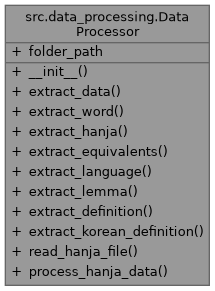
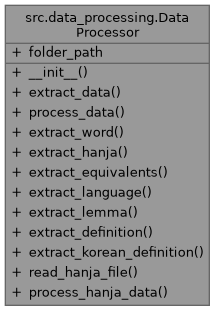
deploy: 048e31db4cb260b1e156aedfd723d729ba83c56d

Changed region(s): [[0.0279, 0.0, 0.9767, 0.9897]]

diff --git a/docs/classsrc_1_1data__processing_1_1DataProcessor.html b/docs/classsrc_1_1data__processing_1_1DataProcessor.html
@@ -111,7 +111,7 @@ Collaboration diagram for src.data_processing.DataProcessor:</div>
 <div class="dyncontent">
 <div class="center"><img src="classsrc_1_1data__processing_1_1DataProcessor__coll__graph.png" border="0" usemap="#asrc_8data__processing_8DataProcessor_coll__map" alt="Collaboration graph"/></div>
 <map name="asrc_8data__processing_8DataProcessor_coll__map" id="asrc_8data__processing_8DataProcessor_coll__map">
-<area shape="rect" title="A class to process the data of the json file." alt="" coords="5,5,209,285"/>
+<area shape="rect" title="A class to process the data of the json file." alt="" coords="5,5,209,305"/>
 </map>
 </div>
 <table class="memberdecls">
@@ -122,6 +122,9 @@ Public Member Functions</h2></td></tr>
 <tr class="memitem:a4d8f294a1410020041fdd57ebca5c629" id="r_a4d8f294a1410020041fdd57ebca5c629"><td class="memItemLeft" align="right" valign="top">&#160;</td><td class="memItemRight" valign="bottom"><a class="el" href="classsrc_1_1data__processing_1_1DataProcessor.html#a4d8f294a1410020041fdd57ebca5c629">extract_data</a> (self)</td></tr>
 <tr class="memdesc:a4d8f294a1410020041fdd57ebca5c629"><td class="mdescLeft">&#160;</td><td class="mdescRight">Extracts data from JSON files in the specified folder.  <br /></td></tr>
 <tr class="separator:a4d8f294a1410020041fdd57ebca5c629"><td class="memSeparator" colspan="2">&#160;</td></tr>
+<tr class="memitem:af1d408b78a8a28b54b96e30bc3de1754" id="r_af1d408b78a8a28b54b96e30bc3de1754"><td class="memItemLeft" align="right" valign="top">&#160;</td><td class="memItemRight" valign="bottom"><a class="el" href="classsrc_1_1data__processing_1_1DataProcessor.html#af1d408b78a8a28b54b96e30bc3de1754">process_data</a> (self, raw_data)</td></tr>
+<tr class="memdesc:af1d408b78a8a28b54b96e30bc3de1754"><td class="mdescLeft">&#160;</td><td class="mdescRight">Processes raw data to extract and transform necessary fields for further use.  <br /></td></tr>
+<tr class="separator:af1d408b78a8a28b54b96e30bc3de1754"><td class="memSeparator" colspan="2">&#160;</td></tr>
 <tr class="memitem:aca8cb2dd99e8358d0c80ff0f04307193" id="r_aca8cb2dd99e8358d0c80ff0f04307193"><td class="memItemLeft" align="right" valign="top">&#160;</td><td class="memItemRight" valign="bottom"><a class="el" href="classsrc_1_1data__processing_1_1DataProcessor.html#aca8cb2dd99e8358d0c80ff0f04307193">extract_word</a> (self, lemma_datas)</td></tr>
 <tr class="memdesc:aca8cb2dd99e8358d0c80ff0f04307193"><td class="mdescLeft">&#160;</td><td class="mdescRight">Extracts the 'val' from the lemma element.  <br /></td></tr>
 <tr class="separator:aca8cb2dd99e8358d0c80ff0f04307193"><td class="memSeparator" colspan="2">&#160;</td></tr>
@@ -467,6 +470,101 @@ Public Attributes</h2></td></tr>
   </dd>
 </dl>
 <dl class="section return"><dt>Returns</dt><dd>The extracted word value, or None if not found. </dd></dl>
+
+</div>
+</div>
+<a id="af1d408b78a8a28b54b96e30bc3de1754" name="af1d408b78a8a28b54b96e30bc3de1754"></a>
+<h2 class="memtitle"><span class="permalink"><a href="#af1d408b78a8a28b54b96e30bc3de1754">&#9670;&#160;</a></span>process_data()</h2>
+
+<div class="memitem">
+<div class="memproto">
+      <table class="memname">
+        <tr>
+          <td class="memname">src.data_processing.DataProcessor.process_data </td>
+          <td>(</td>
+          <td class="paramtype">&#160;</td>
+          <td class="paramname"><em>self</em>, </td>
+        </tr>
+        <tr>
+          <td class="paramkey"></td>
+          <td></td>
+          <td class="paramtype">&#160;</td>
+          <td class="paramname"><em>raw_data</em>&#160;</td>
+        </tr>
+        <tr>
+          <td></td>
+          <td>)</td>
+          <td></td><td></td>
+        </tr>
+      </table>
+</div><div class="memdoc">
+
+<p>Processes raw data to extract and transform necessary fields for further use. </p>
+<dl class="params"><dt>Parameters</dt><dd>
+  <table class="params">
+    <tr><td class="paramname">raw_data</td><td>A list of dictionaries representing raw data entries. </td></tr>
+  </table>
+  </dd>
+</dl>
+<dl class="section return"><dt>Returns</dt><dd>A list of dictionaries with processed and relevant data.</dd></dl>
+<p>lexical_entries Represents a single lexical entry in the dictionary, containing various features of the word. Lemma:</p><ul>
+<li>A list of 'feat' elements that represent the main word form.</li>
+<li>Each 'feat' contains:<ul>
+<li>'att': The attribute name, typically 'writtenForm' for the main word.</li>
+<li>'val': The actual value, which is the word itself (e.g., '침팬지'). RelatedForm:</li>
+</ul>
+</li>
+<li>Represents any related forms of the word, such as variations or inflections.</li>
+<li>Typically contains 'feat' elements with 'att' representing the type of form (e.g., 'variant') and 'val' representing the word form (e.g., '침팬치'). Sense:</li>
+<li>Contains detailed information about the meaning(s) of the word.</li>
+<li>Typically contains the following sub-elements:<ul>
+<li>Equivalent: A list of 'feat' elements representing the word's equivalent forms in other languages. Each 'feat' contains:<ul>
+<li>'att': The attribute name, such as 'language', 'lemma', or 'definition'.</li>
+<li>'val': The corresponding value for the attribute, such as:<ul>
+<li>'language' -&gt; The language name (e.g., '영어' for English, '프랑스어' for French).</li>
+<li>'lemma' -&gt; The word in the equivalent language.</li>
+<li>'definition' -&gt; The definition of the word in the equivalent language.</li>
+</ul>
+</li>
+</ul>
+</li>
+<li>SenseExample:<ul>
+<li>Contains example usage of the word, typically in context.</li>
+<li>'feat': A list containing:<ul>
+<li>'att': 'type' represents the type of example (e.g., '문장' for sentence, '대화' for conversation).</li>
+<li>'val': The actual example text.</li>
+</ul>
+</li>
+</ul>
+</li>
+<li>att : could represent the identifier for sense.</li>
+<li>feat: This part contains the different specifications<ul>
+<li>'att': 'type' represents different specifications of the word such as 'homonym_number', 'partOfSpeech', 'origin', 'vocabularyLevel', 'lexicalUnit'.</li>
+<li>'val': The actual value of the specification.</li>
+</ul>
+</li>
+<li>val : could represent the id of the word WordForm:</li>
+</ul>
+</li>
+<li>Contains pronunciation information or other related word forms.</li>
+<li>Typically contains 'feat' elements with:<ul>
+<li>'att': 'pronunciation' for pronunciation details.</li>
+<li>'val': The value for pronunciation or another related form. att:</li>
+</ul>
+</li>
+<li>Can represent various attributes or features of the word, such as:<ul>
+<li>'id': The unique identifier for the lexical entry.</li>
+<li>'partOfSpeech': The part of speech (e.g., 'noun', 'verb').</li>
+<li>'origin': The origin of the word (e.g., '한자' for Hanja-based words). feat:</li>
+</ul>
+</li>
+<li>Contains various additional features of the word, such as:<ul>
+<li>'att': Could include attributes like 'homonym_number', 'partOfSpeech', 'origin', 'vocabularyLevel', 'lexicalUnit'.</li>
+<li>'val': The actual value for each feature (e.g., a specific homonym number, part of speech, or origin of the word). val:</li>
+</ul>
+</li>
+<li>Can represent a variety of values such as the 'id' of the word, or specific properties like part of speech or lexical unit. </li>
+</ul>
 
 </div>
 </div>

diff --git a/docs/navtreeindex0.js b/docs/navtreeindex0.js
@@ -7,8 +7,8 @@ var NAVTREEINDEX0 =
 "classsrc_1_1data__access_1_1DataAccess.html":[1,0,0,0,0],
 "classsrc_1_1data__access_1_1DataAccess.html#a1cfc6893f66c213340355c6acaf1a3a3":[0,0,0,1,0,5],
 "classsrc_1_1data__access_1_1DataAccess.html#a1cfc6893f66c213340355c6acaf1a3a3":[1,0,0,0,0,5],
-"classsrc_1_1data__access_1_1DataAccess.html#a23e8da2b908674f31c01407620fe3728":[0,0,0,1,0,0],
 "classsrc_1_1data__access_1_1DataAccess.html#a23e8da2b908674f31c01407620fe3728":[1,0,0,0,0,0],
+"classsrc_1_1data__access_1_1DataAccess.html#a23e8da2b908674f31c01407620fe3728":[0,0,0,1,0,0],
 "classsrc_1_1data__access_1_1DataAccess.html#a4684f7cefabfbcb84b28be9e2ef74f64":[0,0,0,1,0,3],
 "classsrc_1_1data__access_1_1DataAccess.html#a4684f7cefabfbcb84b28be9e2ef74f64":[1,0,0,0,0,3],
 "classsrc_1_1data__access_1_1DataAccess.html#a4f4e7ab71ee7131858752bdfb4d0e2f1":[0,0,0,1,0,4],
@@ -17,38 +17,40 @@ var NAVTREEINDEX0 =
 "classsrc_1_1data__access_1_1DataAccess.html#a5f80aa884c00c50a14da99ac902c4dc7":[1,0,0,0,0,1],
 "classsrc_1_1data__access_1_1DataAccess.html#a9857ba6547fe8216f69801f9d4eaa6e0":[0,0,0,1,0,2],
 "classsrc_1_1data__access_1_1DataAccess.html#a9857ba6547fe8216f69801f9d4eaa6e0":[1,0,0,0,0,2],
-"classsrc_1_1data__processing_1_1DataProcessor.html":[0,0,0,2,0],
 "classsrc_1_1data__processing_1_1DataProcessor.html":[1,0,0,1,0],
+"classsrc_1_1data__processing_1_1DataProcessor.html":[0,0,0,2,0],
 "classsrc_1_1data__processing_1_1DataProcessor.html#a3a6f7d8ef4426dfe180524a089fe5ea9":[1,0,0,1,0,7],
 "classsrc_1_1data__processing_1_1DataProcessor.html#a3a6f7d8ef4426dfe180524a089fe5ea9":[0,0,0,2,0,7],
-"classsrc_1_1data__processing_1_1DataProcessor.html#a3f151d5d1bb0d7794aacf774691d3d1f":[1,0,0,1,0,11],
-"classsrc_1_1data__processing_1_1DataProcessor.html#a3f151d5d1bb0d7794aacf774691d3d1f":[0,0,0,2,0,11],
+"classsrc_1_1data__processing_1_1DataProcessor.html#a3f151d5d1bb0d7794aacf774691d3d1f":[1,0,0,1,0,12],
+"classsrc_1_1data__processing_1_1DataProcessor.html#a3f151d5d1bb0d7794aacf774691d3d1f":[0,0,0,2,0,12],
 "classsrc_1_1data__processing_1_1DataProcessor.html#a4d8f294a1410020041fdd57ebca5c629":[1,0,0,1,0,1],
 "classsrc_1_1data__processing_1_1DataProcessor.html#a4d8f294a1410020041fdd57ebca5c629":[0,0,0,2,0,1],
 "classsrc_1_1data__processing_1_1DataProcessor.html#a5ee76136c86c8978b38d4917ea51d145":[1,0,0,1,0,2],
 "classsrc_1_1data__processing_1_1DataProcessor.html#a5ee76136c86c8978b38d4917ea51d145":[0,0,0,2,0,2],
-"classsrc_1_1data__processing_1_1DataProcessor.html#a611dcfaf4a6c3129fc38bc01d659203f":[1,0,0,1,0,9],
-"classsrc_1_1data__processing_1_1DataProcessor.html#a611dcfaf4a6c3129fc38bc01d659203f":[0,0,0,2,0,9],
-"classsrc_1_1data__processing_1_1DataProcessor.html#a8b10b2a476887fdf599456f74c582652":[1,0,0,1,0,5],
+"classsrc_1_1data__processing_1_1DataProcessor.html#a611dcfaf4a6c3129fc38bc01d659203f":[1,0,0,1,0,10],
+"classsrc_1_1data__processing_1_1DataProcessor.html#a611dcfaf4a6c3129fc38bc01d659203f":[0,0,0,2,0,10],
 "classsrc_1_1data__processing_1_1DataProcessor.html#a8b10b2a476887fdf599456f74c582652":[0,0,0,2,0,5],
+"classsrc_1_1data__processing_1_1DataProcessor.html#a8b10b2a476887fdf599456f74c582652":[1,0,0,1,0,5],
 "classsrc_1_1data__processing_1_1DataProcessor.html#a8c28d40e8b07b8de8a765f8f5c9c18f8":[1,0,0,1,0,6],
 "classsrc_1_1data__processing_1_1DataProcessor.html#a8c28d40e8b07b8de8a765f8f5c9c18f8":[0,0,0,2,0,6],
-"classsrc_1_1data__processing_1_1DataProcessor.html#aa387522f4d9d82eab51fad066c97c404":[1,0,0,1,0,3],
 "classsrc_1_1data__processing_1_1DataProcessor.html#aa387522f4d9d82eab51fad066c97c404":[0,0,0,2,0,3],
+"classsrc_1_1data__processing_1_1DataProcessor.html#aa387522f4d9d82eab51fad066c97c404":[1,0,0,1,0,3],
 "classsrc_1_1data__processing_1_1DataProcessor.html#aca8cb2dd99e8358d0c80ff0f04307193":[1,0,0,1,0,8],
 "classsrc_1_1data__processing_1_1DataProcessor.html#aca8cb2dd99e8358d0c80ff0f04307193":[0,0,0,2,0,8],
 "classsrc_1_1data__processing_1_1DataProcessor.html#accedfc491786ec5de0b62d9f13ed1d2f":[0,0,0,2,0,0],
 "classsrc_1_1data__processing_1_1DataProcessor.html#accedfc491786ec5de0b62d9f13ed1d2f":[1,0,0,1,0,0],
-"classsrc_1_1data__processing_1_1DataProcessor.html#acee13daf812b03ebd4b468b5bd21d832":[1,0,0,1,0,10],
-"classsrc_1_1data__processing_1_1DataProcessor.html#acee13daf812b03ebd4b468b5bd21d832":[0,0,0,2,0,10],
+"classsrc_1_1data__processing_1_1DataProcessor.html#acee13daf812b03ebd4b468b5bd21d832":[0,0,0,2,0,11],
+"classsrc_1_1data__processing_1_1DataProcessor.html#acee13daf812b03ebd4b468b5bd21d832":[1,0,0,1,0,11],
 "classsrc_1_1data__processing_1_1DataProcessor.html#ad0cff2f590f2a2398bf8bcc35c99cfc9":[0,0,0,2,0,4],
 "classsrc_1_1data__processing_1_1DataProcessor.html#ad0cff2f590f2a2398bf8bcc35c99cfc9":[1,0,0,1,0,4],
+"classsrc_1_1data__processing_1_1DataProcessor.html#af1d408b78a8a28b54b96e30bc3de1754":[0,0,0,2,0,9],
+"classsrc_1_1data__processing_1_1DataProcessor.html#af1d408b78a8a28b54b96e30bc3de1754":[1,0,0,1,0,9],
 "classsrc_1_1database_1_1DatabaseConnection.html":[0,0,0,3,0],
 "classsrc_1_1database_1_1DatabaseConnection.html":[1,0,0,2,0],
 "classsrc_1_1database_1_1DatabaseConnection.html#a00d6547240ef42d689d7825c7a5ad1ed":[0,0,0,3,0,1],
 "classsrc_1_1database_1_1DatabaseConnection.html#a00d6547240ef42d689d7825c7a5ad1ed":[1,0,0,2,0,1],
-"classsrc_1_1database_1_1DatabaseConnection.html#ab4b17edc08a871595f10ae5d2c519806":[0,0,0,3,0,0],
 "classsrc_1_1database_1_1DatabaseConnection.html#ab4b17edc08a871595f10ae5d2c519806":[1,0,0,2,0,0],
+"classsrc_1_1database_1_1DatabaseConnection.html#ab4b17edc08a871595f10ae5d2c519806":[0,0,0,3,0,0],
 "classsrc_1_1database_1_1DatabaseConnection.html#ace6735dee7ad91a77d0b120ae3cb3f87":[0,0,0,3,0,2],
 "classsrc_1_1database_1_1DatabaseConnection.html#ace6735dee7ad91a77d0b120ae3cb3f87":[1,0,0,2,0,2],
 "config_8py.html":[2,0,0,1],

diff --git a/docs/classsrc_1_1data__processing_1_1DataProcessor-members.html b/docs/classsrc_1_1data__processing_1_1DataProcessor-members.html
@@ -112,8 +112,9 @@ $(document).ready(function(){initNavTree('classsrc_1_1data__processing_1_1DataPr
   <tr class="odd"><td class="entry"><a class="el" href="classsrc_1_1data__processing_1_1DataProcessor.html#a3a6f7d8ef4426dfe180524a089fe5ea9">extract_lemma</a>(self, equivalents)</td><td class="entry"><a class="el" href="classsrc_1_1data__processing_1_1DataProcessor.html">src.data_processing.DataProcessor</a></td><td class="entry"></td></tr>
   <tr class="even"><td class="entry"><a class="el" href="classsrc_1_1data__processing_1_1DataProcessor.html#aca8cb2dd99e8358d0c80ff0f04307193">extract_word</a>(self, lemma_datas)</td><td class="entry"><a class="el" href="classsrc_1_1data__processing_1_1DataProcessor.html">src.data_processing.DataProcessor</a></td><td class="entry"></td></tr>
   <tr class="odd"><td class="entry"><a class="el" href="classsrc_1_1data__processing_1_1DataProcessor.html#a3f151d5d1bb0d7794aacf774691d3d1f">folder_path</a></td><td class="entry"><a class="el" href="classsrc_1_1data__processing_1_1DataProcessor.html">src.data_processing.DataProcessor</a></td><td class="entry"></td></tr>
-  <tr class="even"><td class="entry"><a class="el" href="classsrc_1_1data__processing_1_1DataProcessor.html#a611dcfaf4a6c3129fc38bc01d659203f">process_hanja_data</a>(self, lines)</td><td class="entry"><a class="el" href="classsrc_1_1data__processing_1_1DataProcessor.html">src.data_processing.DataProcessor</a></td><td class="entry"></td></tr>
-  <tr class="odd"><td class="entry"><a class="el" href="classsrc_1_1data__processing_1_1DataProcessor.html#acee13daf812b03ebd4b468b5bd21d832">read_hanja_file</a>(self, file_path)</td><td class="entry"><a class="el" href="classsrc_1_1data__processing_1_1DataProcessor.html">src.data_processing.DataProcessor</a></td><td class="entry"></td></tr>
+  <tr class="even"><td class="entry"><a class="el" href="classsrc_1_1data__processing_1_1DataProcessor.html#af1d408b78a8a28b54b96e30bc3de1754">process_data</a>(self, raw_data)</td><td class="entry"><a class="el" href="classsrc_1_1data__processing_1_1DataProcessor.html">src.data_processing.DataProcessor</a></td><td class="entry"></td></tr>
+  <tr class="odd"><td class="entry"><a class="el" href="classsrc_1_1data__processing_1_1DataProcessor.html#a611dcfaf4a6c3129fc38bc01d659203f">process_hanja_data</a>(self, lines)</td><td class="entry"><a class="el" href="classsrc_1_1data__processing_1_1DataProcessor.html">src.data_processing.DataProcessor</a></td><td class="entry"></td></tr>
+  <tr class="even"><td class="entry"><a class="el" href="classsrc_1_1data__processing_1_1DataProcessor.html#acee13daf812b03ebd4b468b5bd21d832">read_hanja_file</a>(self, file_path)</td><td class="entry"><a class="el" href="classsrc_1_1data__processing_1_1DataProcessor.html">src.data_processing.DataProcessor</a></td><td class="entry"></td></tr>
 </table></div><!-- contents -->
 </div><!-- doc-content -->
 <!-- start footer part -->

diff --git a/docs/functions.html b/docs/functions.html
@@ -116,6 +116,7 @@ $(document).ready(function(){initNavTree('functions.html',''); initResizable(); 
 <li>initialize_database()&#160;:&#160;<a class="el" href="classsrc_1_1data__access_1_1DataAccess.html#a4684f7cefabfbcb84b28be9e2ef74f64">src.data_access.DataAccess</a></li>
 <li>insert_data()&#160;:&#160;<a class="el" href="classsrc_1_1data__access_1_1DataAccess.html#a4f4e7ab71ee7131858752bdfb4d0e2f1">src.data_access.DataAccess</a></li>
 <li>insert_hanja_data()&#160;:&#160;<a class="el" href="classsrc_1_1data__access_1_1DataAccess.html#a1cfc6893f66c213340355c6acaf1a3a3">src.data_access.DataAccess</a></li>
+<li>process_data()&#160;:&#160;<a class="el" href="classsrc_1_1data__processing_1_1DataProcessor.html#af1d408b78a8a28b54b96e30bc3de1754">src.data_processing.DataProcessor</a></li>
 <li>process_hanja_data()&#160;:&#160;<a class="el" href="classsrc_1_1data__processing_1_1DataProcessor.html#a611dcfaf4a6c3129fc38bc01d659203f">src.data_processing.DataProcessor</a></li>
 <li>read_hanja_file()&#160;:&#160;<a class="el" href="classsrc_1_1data__processing_1_1DataProcessor.html#acee13daf812b03ebd4b468b5bd21d832">src.data_processing.DataProcessor</a></li>
 </ul>

diff --git a/docs/functions_func.html b/docs/functions_func.html
@@ -114,6 +114,7 @@ $(document).ready(function(){initNavTree('functions_func.html',''); initResizabl
 <li>initialize_database()&#160;:&#160;<a class="el" href="classsrc_1_1data__access_1_1DataAccess.html#a4684f7cefabfbcb84b28be9e2ef74f64">src.data_access.DataAccess</a></li>
 <li>insert_data()&#160;:&#160;<a class="el" href="classsrc_1_1data__access_1_1DataAccess.html#a4f4e7ab71ee7131858752bdfb4d0e2f1">src.data_access.DataAccess</a></li>
 <li>insert_hanja_data()&#160;:&#160;<a class="el" href="classsrc_1_1data__access_1_1DataAccess.html#a1cfc6893f66c213340355c6acaf1a3a3">src.data_access.DataAccess</a></li>
+<li>process_data()&#160;:&#160;<a class="el" href="classsrc_1_1data__processing_1_1DataProcessor.html#af1d408b78a8a28b54b96e30bc3de1754">src.data_processing.DataProcessor</a></li>
 <li>process_hanja_data()&#160;:&#160;<a class="el" href="classsrc_1_1data__processing_1_1DataProcessor.html#a611dcfaf4a6c3129fc38bc01d659203f">src.data_processing.DataProcessor</a></li>
 <li>read_hanja_file()&#160;:&#160;<a class="el" href="classsrc_1_1data__processing_1_1DataProcessor.html#acee13daf812b03ebd4b468b5bd21d832">src.data_processing.DataProcessor</a></li>
 </ul>

diff --git a/docs/classsrc_1_1data__processing_1_1DataProcessor.js b/docs/classsrc_1_1data__processing_1_1DataProcessor.js
@@ -9,6 +9,7 @@ var classsrc_1_1data__processing_1_1DataProcessor =
     [ "extract_language", "classsrc_1_1data__processing_1_1DataProcessor.html#a8c28d40e8b07b8de8a765f8f5c9c18f8", null ],
     [ "extract_lemma", "classsrc_1_1data__processing_1_1DataProcessor.html#a3a6f7d8ef4426dfe180524a089fe5ea9", null ],
     [ "extract_word", "classsrc_1_1data__processing_1_1DataProcessor.html#aca8cb2dd99e8358d0c80ff0f04307193", null ],
+    [ "process_data", "classsrc_1_1data__processing_1_1DataProcessor.html#af1d408b78a8a28b54b96e30bc3de1754", null ],
     [ "process_hanja_data", "classsrc_1_1data__processing_1_1DataProcessor.html#a611dcfaf4a6c3129fc38bc01d659203f", null ],
     [ "read_hanja_file", "classsrc_1_1data__processing_1_1DataProcessor.html#acee13daf812b03ebd4b468b5bd21d832", null ],
     [ "folder_path", "classsrc_1_1data__processing_1_1DataProcessor.html#a3f151d5d1bb0d7794aacf774691d3d1f", null ]

diff --git a/docs/search/all_9.js b/docs/search/all_9.js
@@ -1,4 +1,5 @@
 var searchData=
 [
-  ['process_5fhanja_5fdata_0',['process_hanja_data',['../classsrc_1_1data__processing_1_1DataProcessor.html#a611dcfaf4a6c3129fc38bc01d659203f',1,'src::data_processing::DataProcessor']]]
+  ['process_5fdata_0',['process_data',['../classsrc_1_1data__processing_1_1DataProcessor.html#af1d408b78a8a28b54b96e30bc3de1754',1,'src::data_processing::DataProcessor']]],
+  ['process_5fhanja_5fdata_1',['process_hanja_data',['../classsrc_1_1data__processing_1_1DataProcessor.html#a611dcfaf4a6c3129fc38bc01d659203f',1,'src::data_processing::DataProcessor']]]
 ];

diff --git a/docs/search/functions_6.js b/docs/search/functions_6.js
@@ -1,4 +1,5 @@
 var searchData=
 [
-  ['process_5fhanja_5fdata_0',['process_hanja_data',['../classsrc_1_1data__processing_1_1DataProcessor.html#a611dcfaf4a6c3129fc38bc01d659203f',1,'src::data_processing::DataProcessor']]]
+  ['process_5fdata_0',['process_data',['../classsrc_1_1data__processing_1_1DataProcessor.html#af1d408b78a8a28b54b96e30bc3de1754',1,'src::data_processing::DataProcessor']]],
+  ['process_5fhanja_5fdata_1',['process_hanja_data',['../classsrc_1_1data__processing_1_1DataProcessor.html#a611dcfaf4a6c3129fc38bc01d659203f',1,'src::data_processing::DataProcessor']]]
 ];
